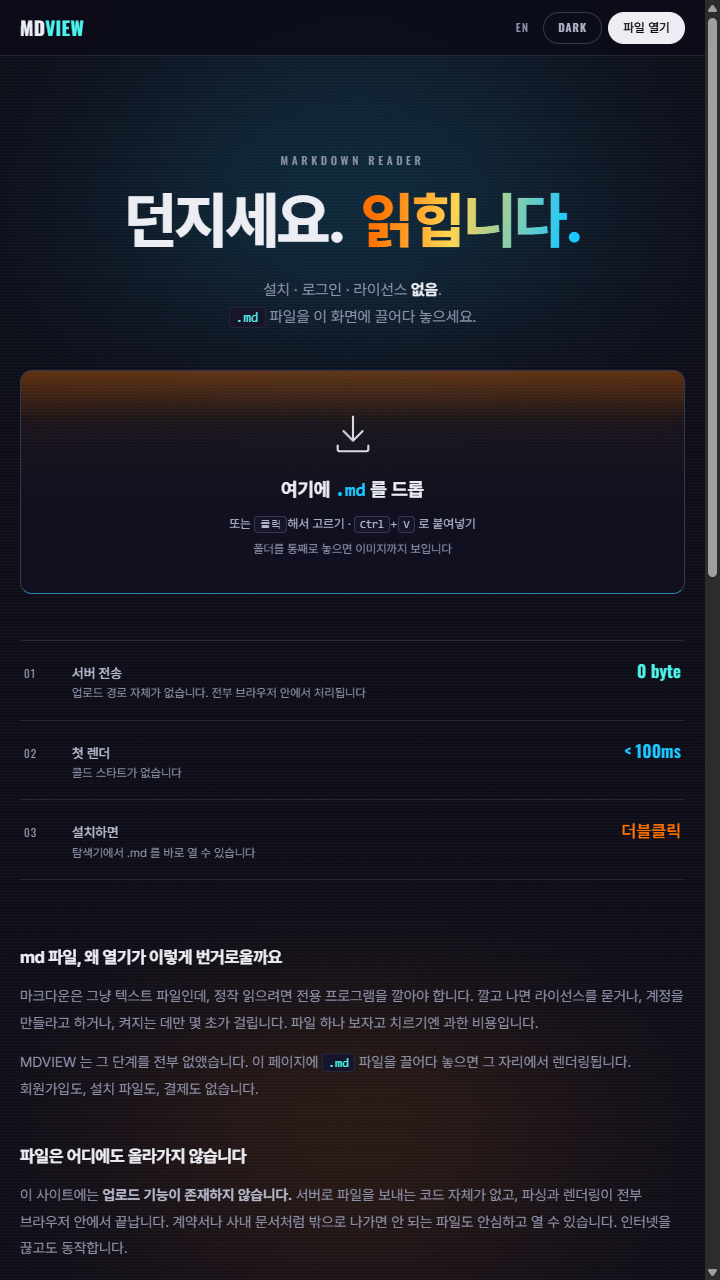
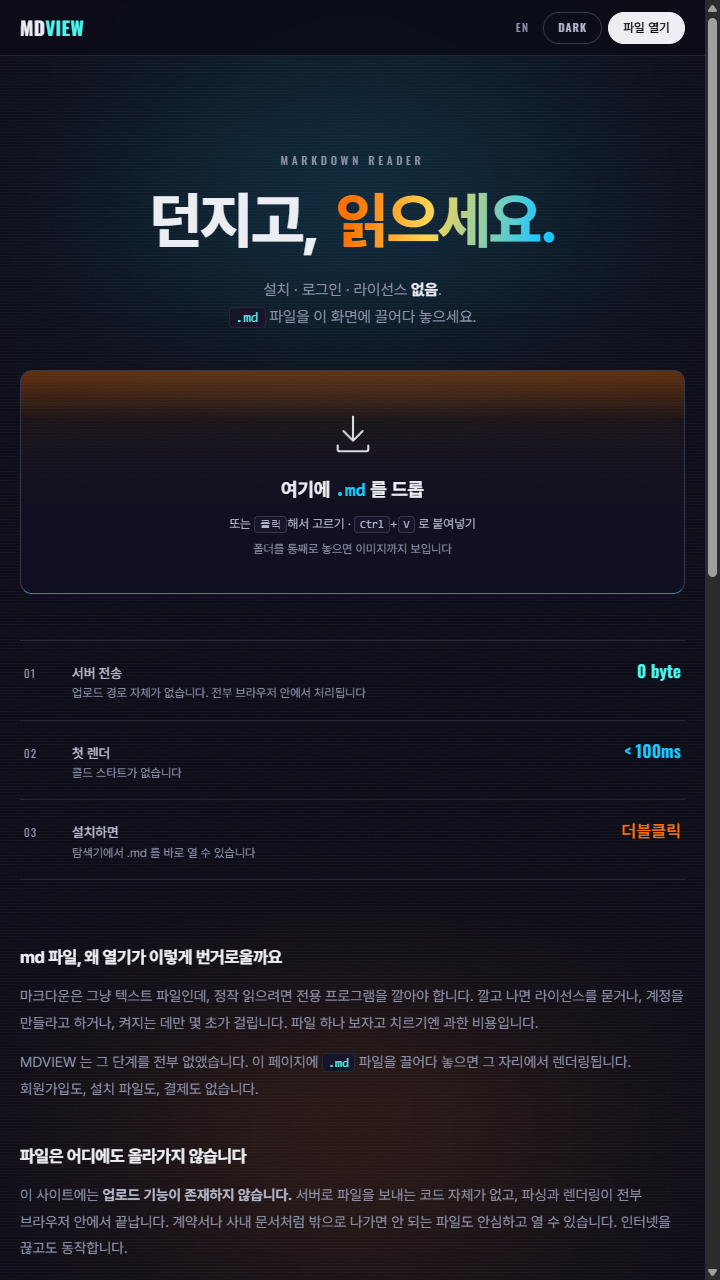
Hero copy: 던지고, 읽으세요. (owner call) - og and install screenshot re-rendered, SW v7

Changed region(s): [[0.1528, 0.125, 0.7944, 0.2188]]

diff --git a/public/sw.js b/public/sw.js
@@ -4,10 +4,10 @@
    changes them at the same URL, so they always go to the network
    first and fall back to the cache only when offline. Bump CACHE
    whenever the hand-made images in /public change. */
-/* v6: og.png and shot-narrow.png re-rendered with the new hero line —
-   they sit in the immutable cache-first set, so the name must change
-   for anyone to see the new pixels. */
-const CACHE = 'mdview-v6';
+/* og.png and shot-narrow.png sit in the immutable cache-first set, so
+   the name must change whenever they are re-rendered. v7: hero line
+   became 던지고, 읽으세요. */
+const CACHE = 'mdview-v7';
 const SHELL = ['/', '/en/', '/install/', '/en/install/'];
 
 /* Content-addressed or hand-versioned: safe to serve from cache. */

diff --git a/index.html b/index.html
@@ -205,8 +205,8 @@
       <section class="hero" id="hero">
         <p class="hero__eyebrow">MARKDOWN READER</p>
         <h1 class="hero__title">
-          <span class="hero__line">던지세요.</span>
-          <span class="hero__line hero__line--accent">읽힙니다.</span>
+          <span class="hero__line">던지고,</span>
+          <span class="hero__line hero__line--accent">읽으세요.</span>
         </h1>
         <p class="hero__sub">
           설치 · 로그인 · 라이선스 <b>없음</b>.<br />
